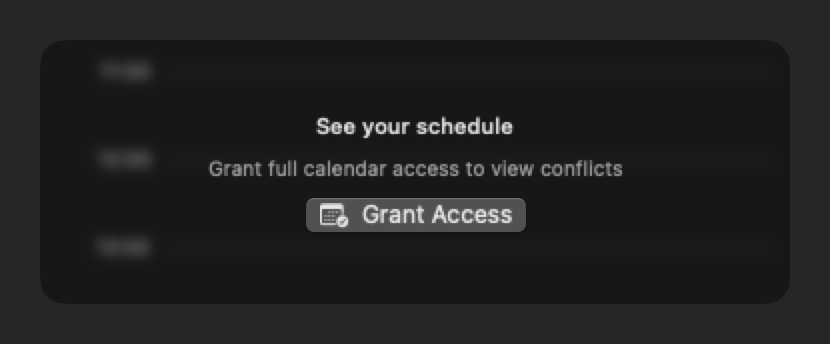
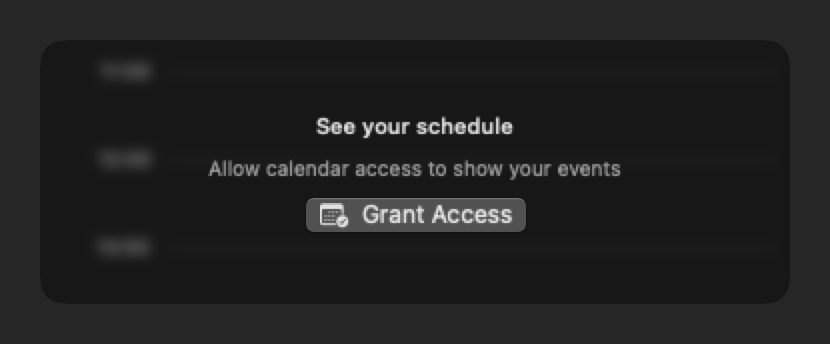
feat: make AccessPromptView.calendar() text configurable
Add optional title, message, and buttonLabel parameters with generic
defaults that work for any calendar app:
- "Allow calendar access to show your events"
- "Grant Calendar Access" (expanded) / "Grant Access" (compact)

Changed region(s): [[0.241, 0.4651, 0.753, 0.5233]]

diff --git a/Sources/TimelineUI/AccessPromptView.swift b/Sources/TimelineUI/AccessPromptView.swift
@@ -98,14 +98,17 @@ public struct AccessPromptView: View {
 extension AccessPromptView {
 	public static func calendar(
 		style: Style = .compact,
+		title: String? = nil,
+		message: String? = nil,
+		buttonLabel: String? = nil,
 		onRequestAccess: @escaping () async -> Void
 	) -> AccessPromptView {
 		AccessPromptView(
 			style: style,
 			icon: "calendar.badge.checkmark",
-			title: style == .compact ? "See your schedule" : "See Your Schedule",
-			message: "Grant full calendar access to view conflicts",
-			buttonLabel: style == .compact ? "Grant Access" : "Grant Full Access",
+			title: title ?? (style == .compact ? "See your schedule" : "See Your Schedule"),
+			message: message ?? "Allow calendar access to show your events",
+			buttonLabel: buttonLabel ?? (style == .compact ? "Grant Access" : "Grant Calendar Access"),
 			onRequestAccess: onRequestAccess
 		)
 	}
